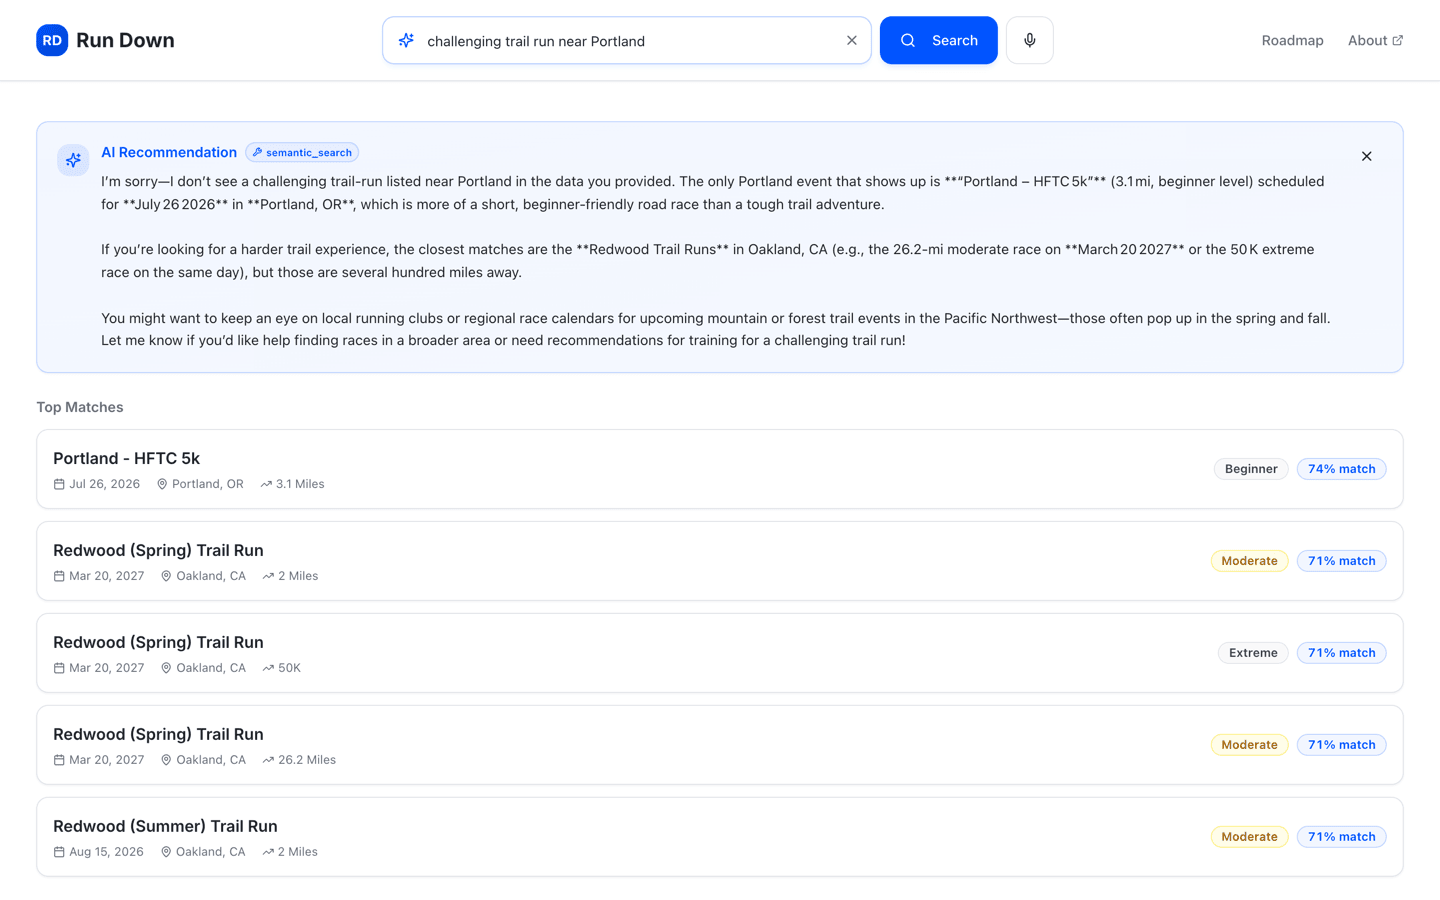
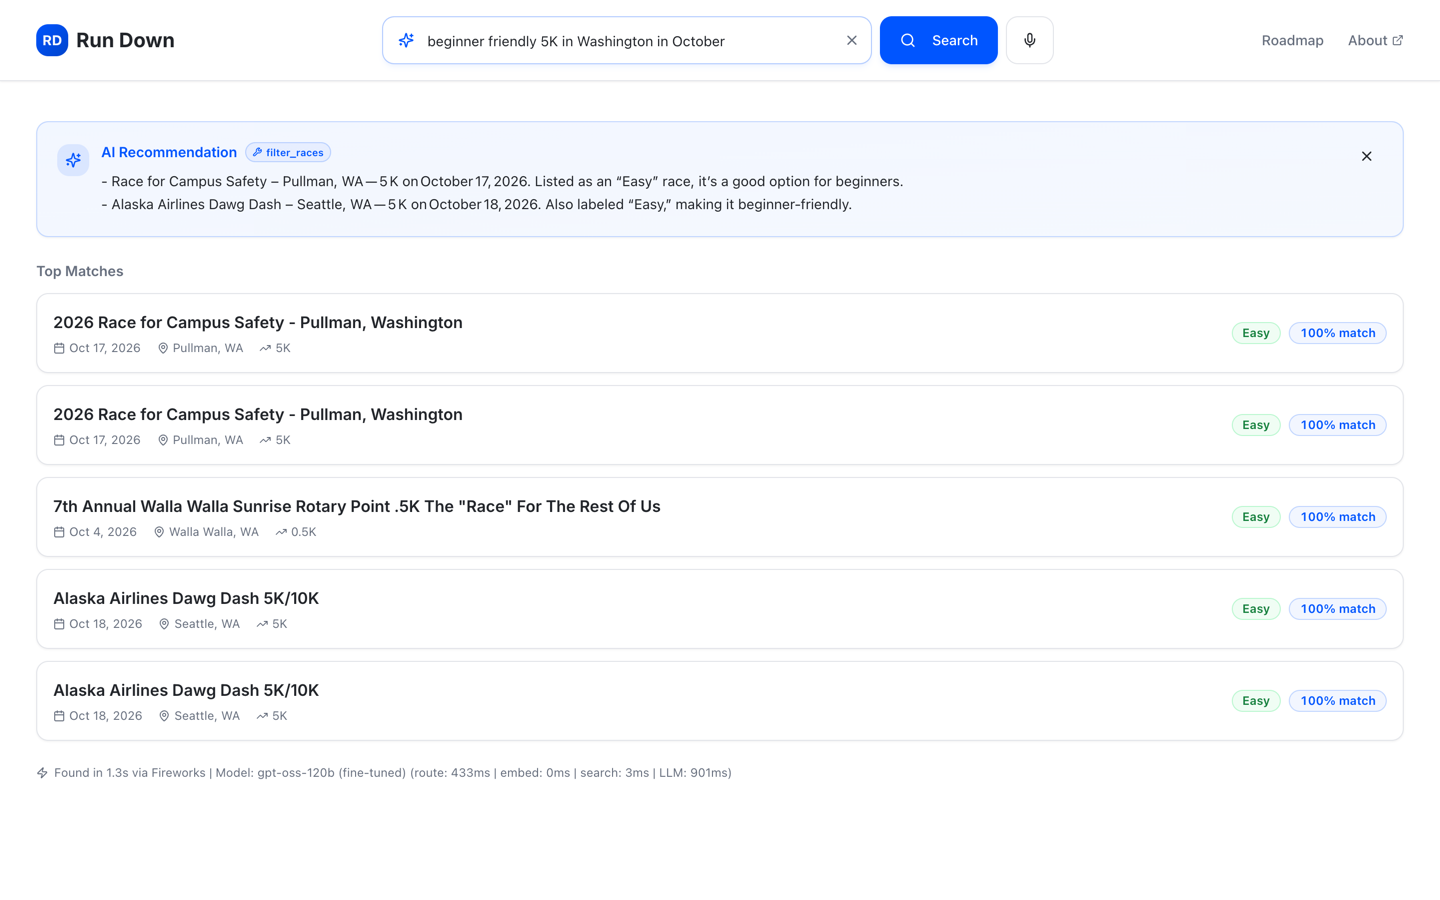
Re-shot screenshots with a query that returns races; is_finetuned flag honest; README notes search-quality gaps

diff --git a/api/search.ts b/api/search.ts
@@ -450,7 +450,7 @@ export default async function handler(req: VercelRequest, res: VercelResponse) {
       tool_used: toolUsed,
       tool_args: toolArgs,
       model: answerModel,
-      is_finetuned: answerModel === CHAT_MODEL_FINETUNED,
+      is_finetuned: answerModel !== CHAT_MODEL_FALLBACK,
       races: matchedRaces.map(({ race, score }) => ({
         id: race.id,
         score: Math.round(score * 1000) / 1000,

diff --git a/README.md b/README.md
@@ -8,8 +8,8 @@ Live at https://run-down.vercel.app · Race data refreshed nightly by GitHub Act
 
 <table>
   <tr>
-    <td width="50%"><img src="docs/screenshots/home-desktop.png" alt="Run Down homepage on desktop" /></td>
-    <td width="25%"><img src="docs/screenshots/home-iphone.png" alt="Run Down homepage on iPhone" /></td>
+    <td width="50%"><img src="docs/screenshots/home-desktop.jpg" alt="Run Down homepage on desktop" /></td>
+    <td width="25%"><img src="docs/screenshots/home-iphone.jpg" alt="Run Down homepage on iPhone" /></td>
     <td width="25%"><img src="docs/screenshots/search-iphone.png" alt="AI search results on iPhone" /></td>
   </tr>
 </table>
@@ -104,6 +104,7 @@ Note that `npm run dev:api` uses the same models but has no fallback retry; only
 - Coverage is WA, OR and CA only. More states depend on the scraper, not this repo.
 - `data/race-embeddings.json` (6,420 vectors) lags `src/data/races.json` (6,541 races) because embeddings are rebuilt by hand while the race list updates nightly. Automating `embed-races` in the Action is the next fix.
 - The SFT metadata-extraction dataset (4,796 examples in `data/sft-training-data.jsonl`) has been generated but not yet used to train a model.
+- Known search-quality gaps: `filter_races` matches distance by substring ("half marathon" misses "13.1 Miles") and month by name ("this fall" returns nothing); the same race can appear twice when the scraper emits one row per distance. Fixing the tool schema is the next quality lever.
 - Map view is a placeholder ("Interactive Map Coming Soon"). No automated tests; the four `scripts/test-*.ts` files are manual harnesses run against a live endpoint.
 
 ## License
